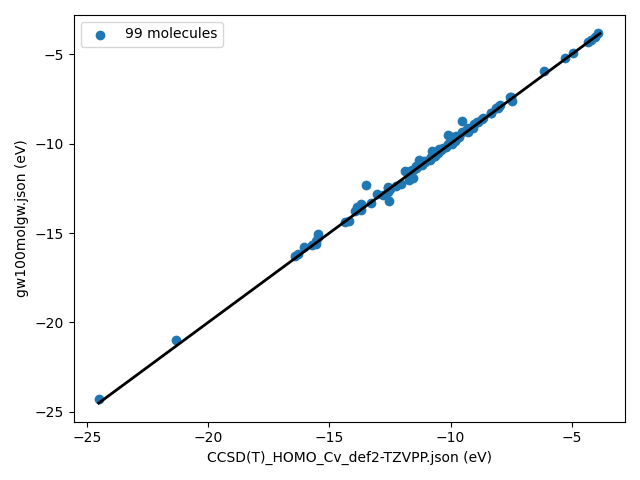
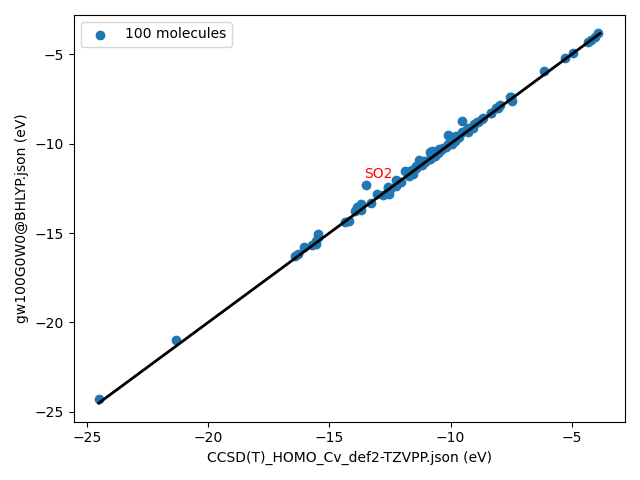
modernizing tuto bench

diff --git a/docs/tuto_bench.md b/docs/tuto_bench.md
@@ -25,7 +25,7 @@ Then edit the script especially here
 #
 # Hard-coded information
 #
-directory       = 'run_001'
+directory       = 'run_bhlyp'
 executable      = '${HOME}/devel/molgw/molgw'
 ```
 
@@ -54,105 +54,88 @@ for basis in ['Def2-TZVPP']:
 ```sh
 python3 run_molgw.py
 ```
-generates all the input files in folder `run_001` and a bash script `run.sh` that can run all the calculations.
+generates all the input files in folder `run_bhlyp` and a bash script `run.sh` that can run all the calculations.
 
 Besides the standard output, **MOLGW** generates a YAML formatted output that is very handy for post-processing.
 
-Here follows a python script that lists all the `molgw.yaml` files, transforms them in a dictionary, and then retrieve the $GW$ HOMO energies.
+Here follows a python script that lists all the `molgw.yaml` files and prints all the $GW$ HOMO energies.
+The python script will use some functionalities that are implemented in the python module `molgw.py`, which should be added to the `PYTHONPATH` or copied in the working directory.
+For instance, 
+```sh
+export PYTHONPATH=$PYTHONPATH:/path/to/molgw/utils/
+```
+
+Here is the script:
 ```python
 #!/usr/bin/python3
-import sys, os, yaml, json
-from yaml import load, Loader
-
-########################################################################
-# Hard coded directly
-#
-directory = 'run_001'
-
-########################################################################
-# Find all the yaml files in the directory
-#
-yaml_files = []
-for root, dirs, files in os.walk(directory):
-    for filename in files:
-        if '.yaml' in filename:
-            yaml_files.append(os.path.join(root, filename))
-print('{} molgw.yaml files identified in directory '.format(len(yaml_files)) + directory)
+  
+import molgw
 
 
-########################################################################
-# Read all the yaml files -> dictionary
-#
-calc = []
-for yaml_file in yaml_files:
-    with open(yaml_file, 'r') as stream:
-        try:
-            calc.append(load(stream,Loader=Loader))
-        except:
-            print(yaml_file + ' is corrupted')
-            pass
+directory = 'run_bhlyp'
 
-########################################################################
-# Analyze the dictionary
-#
-print('\n{:<16}   {:^9} {:^9}\n'.format('CAS number',calc[0]['input parameters']['scf'],'GW energy'))
+calc = molgw.parse_yaml_files(directory)
+
+scf     = calc[0]['input parameters']['scf']
+postscf = calc[0]['input parameters']['postscf']
+
+print('\n{:<16} {:<16}  {:^9} {:^9}\n'.format('CAS number','Formula',scf + ' HOMO',postscf+' HOMO'))
 
 data={}
+formulas={}
 for c in calc:
     mol =  c["input parameters"]["comment"]
-    homo = int( c["physical system"]["electrons"] * 0.50 )
-    homo_gks = c["gks energy"]["spin channel 1"][homo]
+    homo_gks = molgw.get_homo_energy("gks",c)
+    formulas[mol] = molgw.get_chemical_formula(c)
     try:
-        homo_gw  = c["gw energy"]["spin channel 1"][homo]
-        print('{:<16} {:9.3f} {:9.3f}'.format(mol,homo_gks,homo_gw))
+        homo_gw  = molgw.get_homo_energy('gw',c)
+        print('{:<16} {:<16} {:9.3f} {:9.3f}'.format(mol,formulas[mol],homo_gks,homo_gw))
         data[mol] = homo_gw
     except:
-        print('{:<16} reading FAILED: maybe SCF cycles did not converge?'.format(mol))
+        pass
 
-########################################################################
-# Create a json file
-gw100molgw = dict()
-gw100molgw["orbital"]= 'HOMO'
-gw100molgw["remark"]= "RIJK with AUTO"
-gw100molgw["code"]= "MOLGW"
-gw100molgw["basis_size"]= "3" 
-gw100molgw["parameters"]= { "eta": 0.001 } 
-gw100molgw["basis"]= "gaussian"
-gw100molgw["code_version"]= "2.E"
-gw100molgw["qpe"]= "solved"
-gw100molgw["DOI"]= "unpublished"
-gw100molgw["basis_name"]= calc[0]["input parameters"]["basis"]
-gw100molgw["calc_type"]= calc[0]["input parameters"]["postscf"] + '@' + calc[0]["input parameters"]["scf"]
-gw100molgw["data"]= data
+print('{} HOMO energies have been obtained'.format(len(data)))
 
-with open('gw100molgw.json', 'w') as json_file:
-        json.dump(gw100molgw,json_file,indent=2,separators=(',', ': '))
+details = dict()
+details["orbital"]= 'HOMO'
+details["remark"]= "RIJK with AUTO"
+details["basis_size"]= "3"
+details["parameters"]= { "eta": float(calc[0]["input parameters"]["eta"])*27.211 }
+details["basis_name"]= calc[0]["input parameters"]["basis"]
+details["calc_type"]= postscf + '@' + scf
+
+# Useful addition from MOLGW
+details["formulas"]= formulas
+
+molgw.create_gw100_json('gw100'+postscf+'@'+scf+'.json',data,**details)
 ```
 
 
 The beginning of the output looks like
 ```txt
-CAS number           BHLYP   GW energy
+CAS number       Formula           BHLYP HOMO G0W0 HOMO
 
-1309-48-4           -7.474    -7.620
-60-29-7             -8.900    -9.874
-25681-79-2          -4.014    -4.929
-593-66-8            -7.972    -9.183
-...
+1309-48-4        MgO                 -7.474    -7.620
+60-29-7          C4OH10              -8.900    -9.874
+25681-79-2       Na2                 -4.014    -4.929
+593-66-8         C2IH3               -7.972    -9.183
+1304-56-9        BeO                 -8.546    -9.607
 ```
 
-A json file named `gw100molgw.json` is generated that can be contributed to the official GW100 web site.
+A json file named `gw100G0W0@BHLYP.json` is also generated.
+It conforms to the standard employed by the official GW100 web site.
 
-Conversely one can retrieve files from GW100 github repository:
+Finally we can compare with GW100 data sets, which have been mirrored here:
 ```sh
-wget https://raw.githubusercontent.com/setten/GW100/master/data/G0W0%40BH-LYP_HOMO_Tv7.0_def2_TZVPP_cbas.json
-wget https://raw.githubusercontent.com/setten/GW100/master/data/CCSD\(T\)_HOMO_Cv_def2-TZVPP.json
+wget http://www.molgw.org/files/G0W0@BH-LYP_HOMO_Tv7.0_def2_TZVPP_cbas.json
+wget http://www.molgw.org/files/CCSD\(T\)_HOMO_Cv_def2-TZVPP.json
 ```
 
 and compare them with our results
 ```py
 #!/usr/bin/python3
-import sys, os, yaml, json
+
+import sys, json
 import matplotlib.pyplot as plt
 
 if len(sys.argv) > 2:
@@ -172,8 +155,14 @@ for file in files:
 
 mol1 = set(sets[0]["data"].keys())
 mol2 = set(sets[1]["data"].keys())
-e1 = [ float(sets[0]["data"][mol])  for mol in  mol1.intersection(mol2) ]
-e2 = [ float(sets[1]["data"][mol])  for mol in  mol1.intersection(mol2) ]
+e1 = []
+e2 = []
+
+for mol in mol1.intersection(mol2):
+   e1.append(float(sets[0]["data"][mol]))
+   e2.append(float(sets[1]["data"][mol]))
+
+print('{} common molecules found'.format(len(e1)))
 
 xymin=min(e1+e2)
 xymax=max(e1+e2)
@@ -183,11 +172,14 @@ plt.plot([xymin,xymax],[xymin,xymax],'-',color='black',lw=2.0)
 plt.scatter(e1, e2,label='{} molecules'.format(len(e1)))
 plt.legend()
 plt.tight_layout()
+plt.savefig('comp.png',format='png')
 plt.show()
 ```
 
 The agreement with the implementation in [Turbomole 7](http://www.turbomole.org) is excellent:
 ![TM](img/turbomole.png)
+The small differences are certainly due the auxiliary basis or to the frozencore approximation used here.
+The mean absolute error (MAE) is 29 meV.
 
 The agreement with [CCSD(T)](http://dx.doi.org/10.1080/00268976.2015.1025113) is good.
 The worst outlier is the HOMO of SO$_2$.
